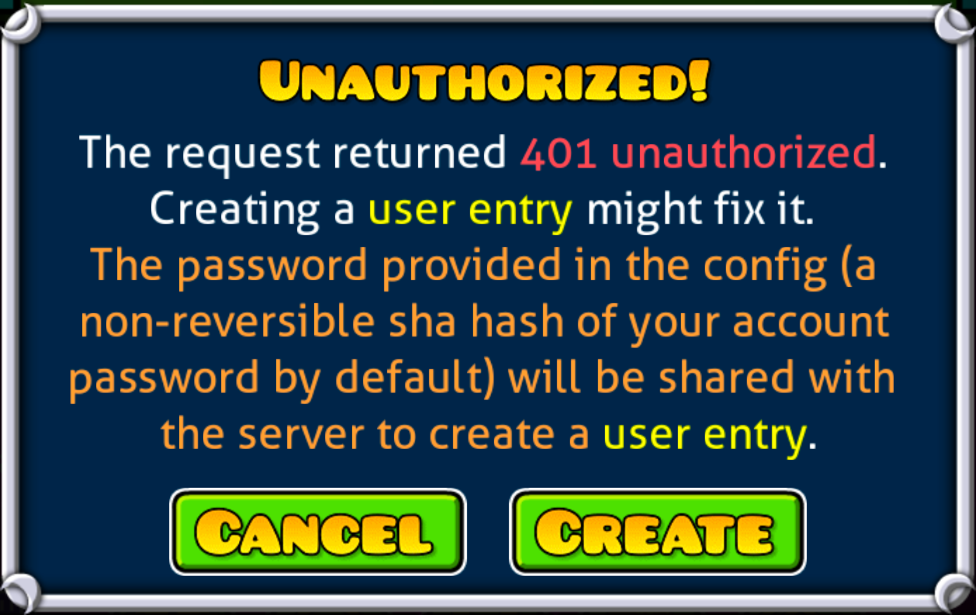
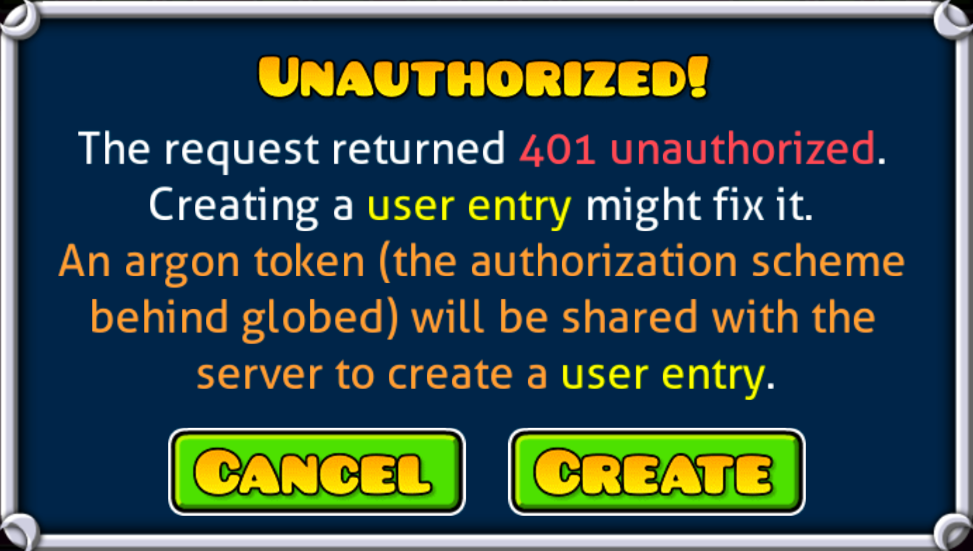
update information

diff --git a/README.md b/README.md
@@ -10,15 +10,30 @@ If you have not created a user entry, clicking either button with show
 
 <img src="./resources/user_entry.png">
 
-Clicking create will create a user entry on the server using the password provided in the mod config.
-It is highly recommended to change this value to something you can remember (a sha hash is practically random data),
-**but do not use for anything else**.
+Clicking create will create a user entry on the server using an argon token.
 
 Clicking save after creating a user entry will save your mods and configs to the server.
 
-Clicking load will show a popup detailing the mods found on the server, red means you do not have the mod installed.
-This list gets truncated after 8 elements.
+Clicking load will show a popup detailing the mods found on the server.
+
+A red version means you do not have the mod installed, a yellow version means you do have the mod installed,
+but a lower version, and a green version means you have the mod installed and the same or higher version.
+
+Mods that are not installed or are an inferior version will be automatically selected for installation.
+Configs can also be synced through toggling the "Config" toggler in a mod's info box.
 
 <img src="./resources/load.png">
 
 Once you load the mods you will be prompted to restart the game.
+
+<img src="./resources/restart.png">
+
+After restarting, if a mod's config is synced and requires it, you will be prompted to, once again,
+restart your game.
+
+### Additional Information
+The [server software](https://github.com/FlyingPig525/modfetcher-server) can be self-hosted and the server
+ip can be configured in the mod's settings.
+
+### Credits
+- Thanks to [capeling](https://github.com/Capeling) for creating the mod logo template
